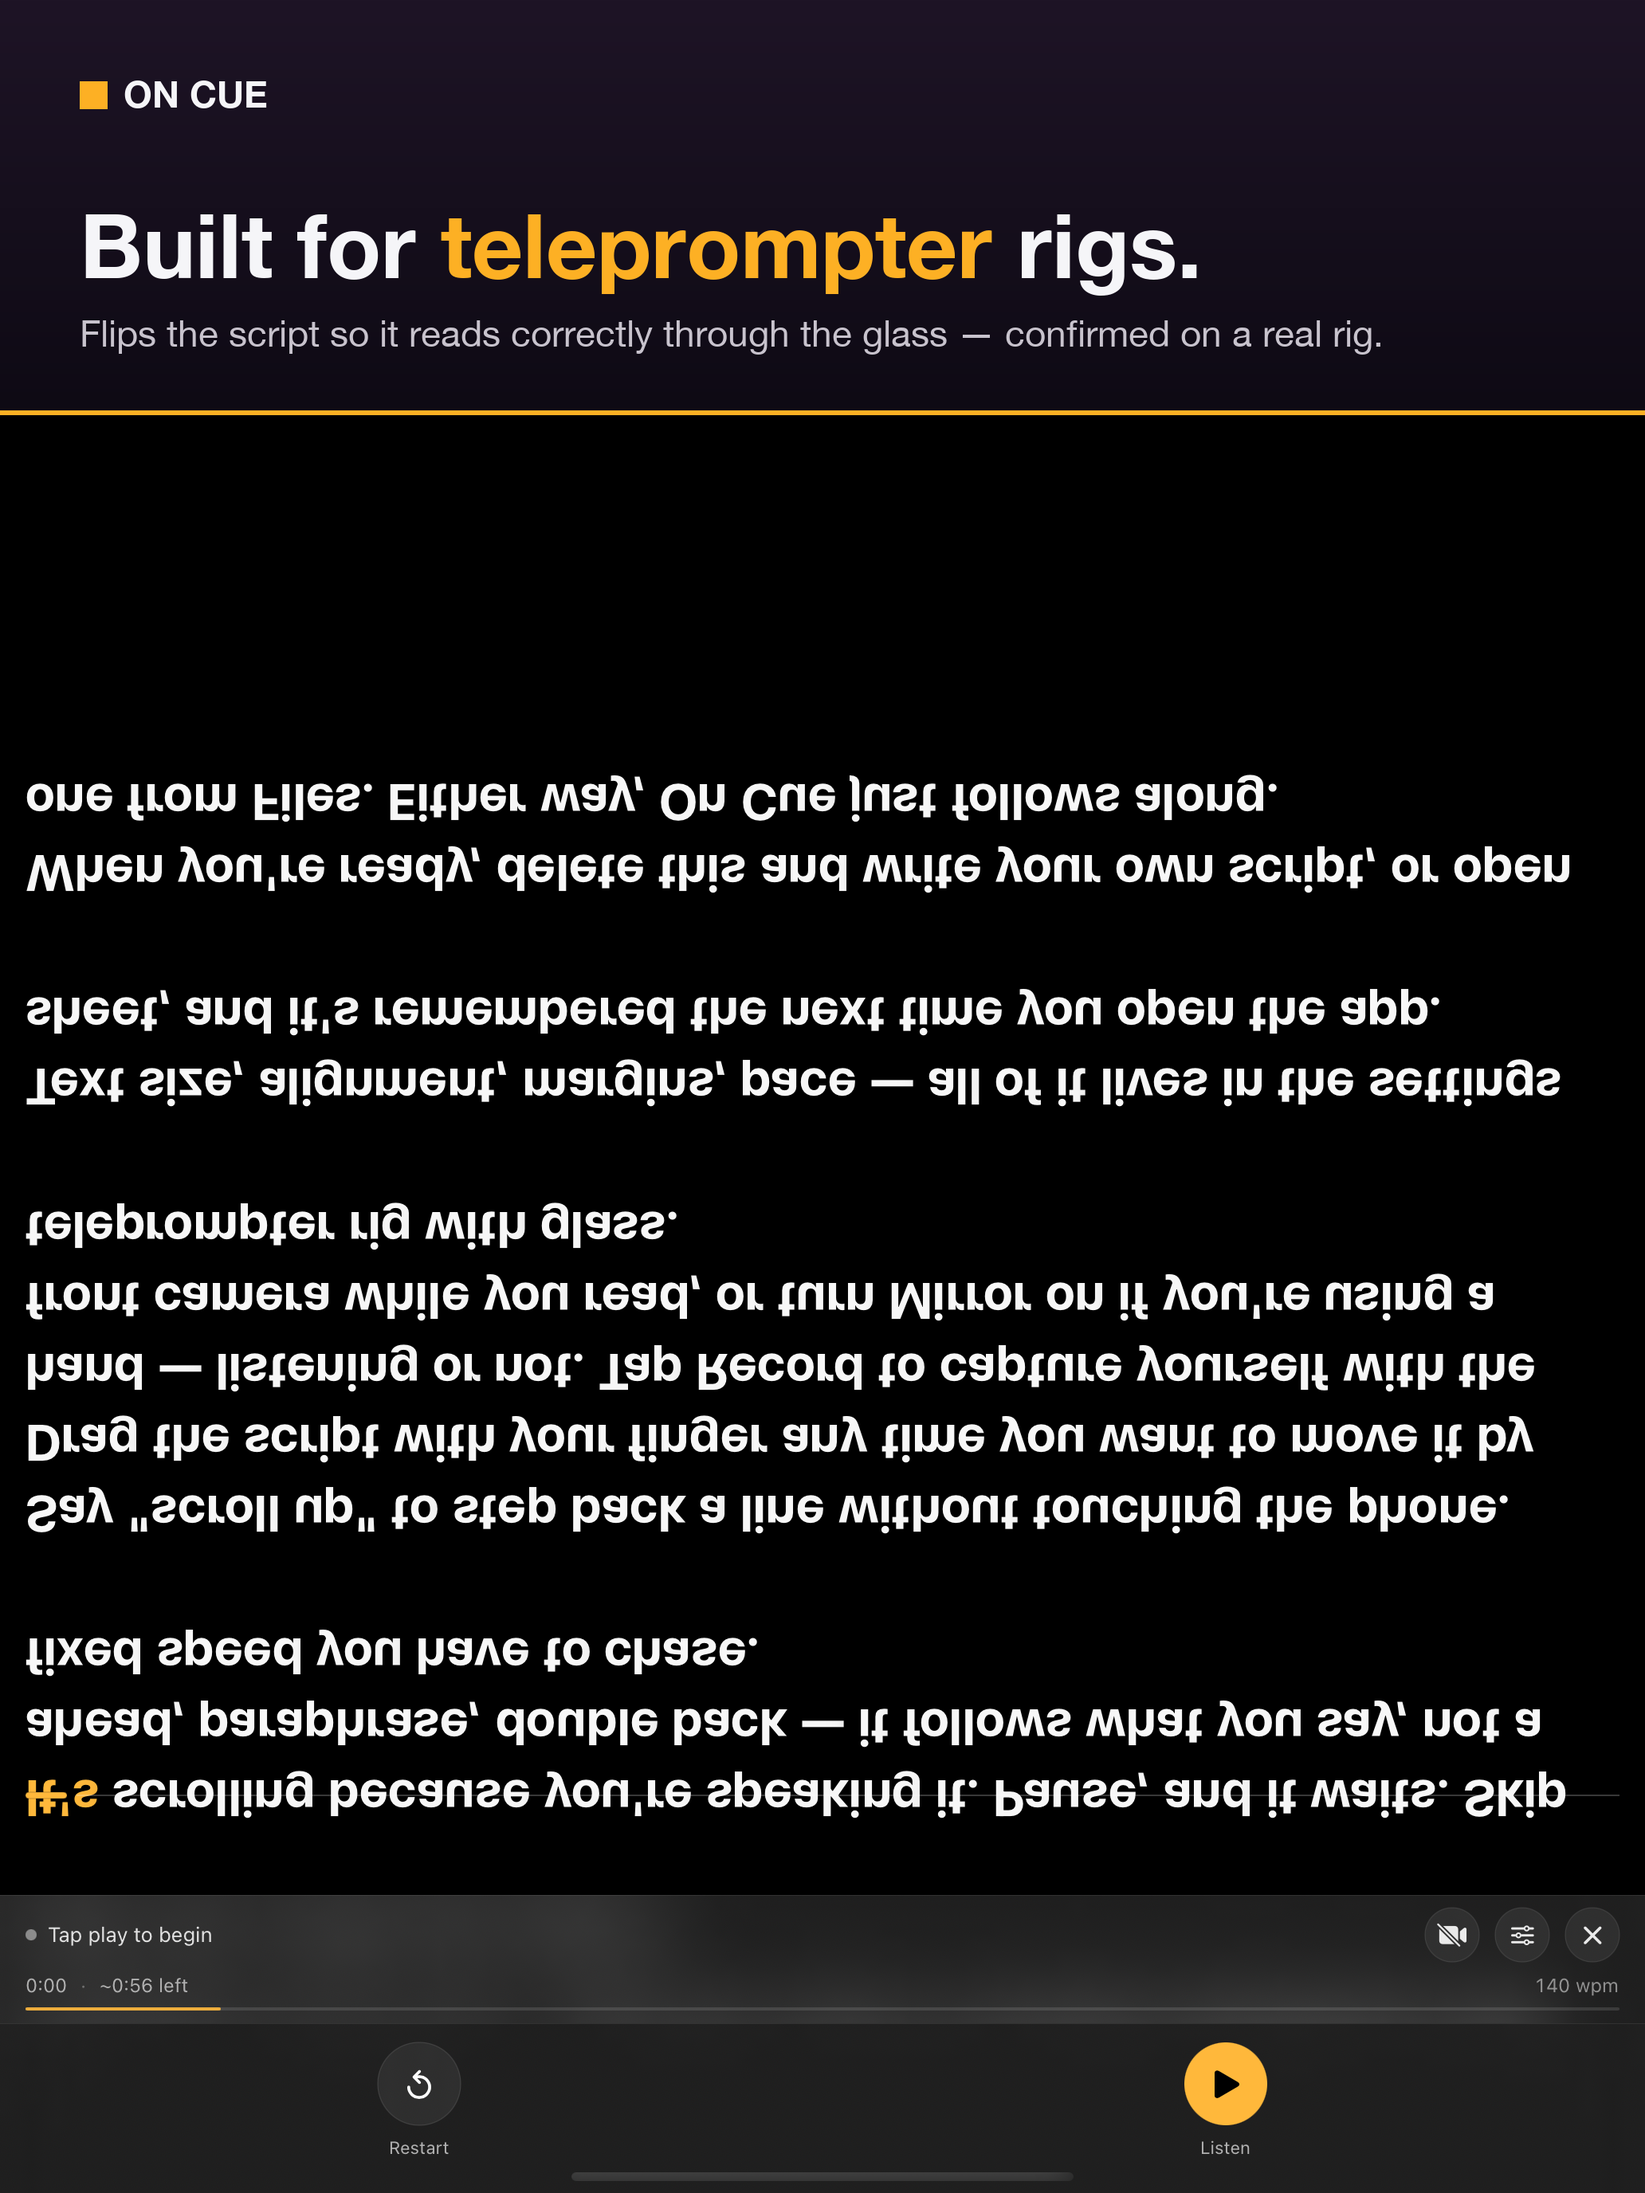
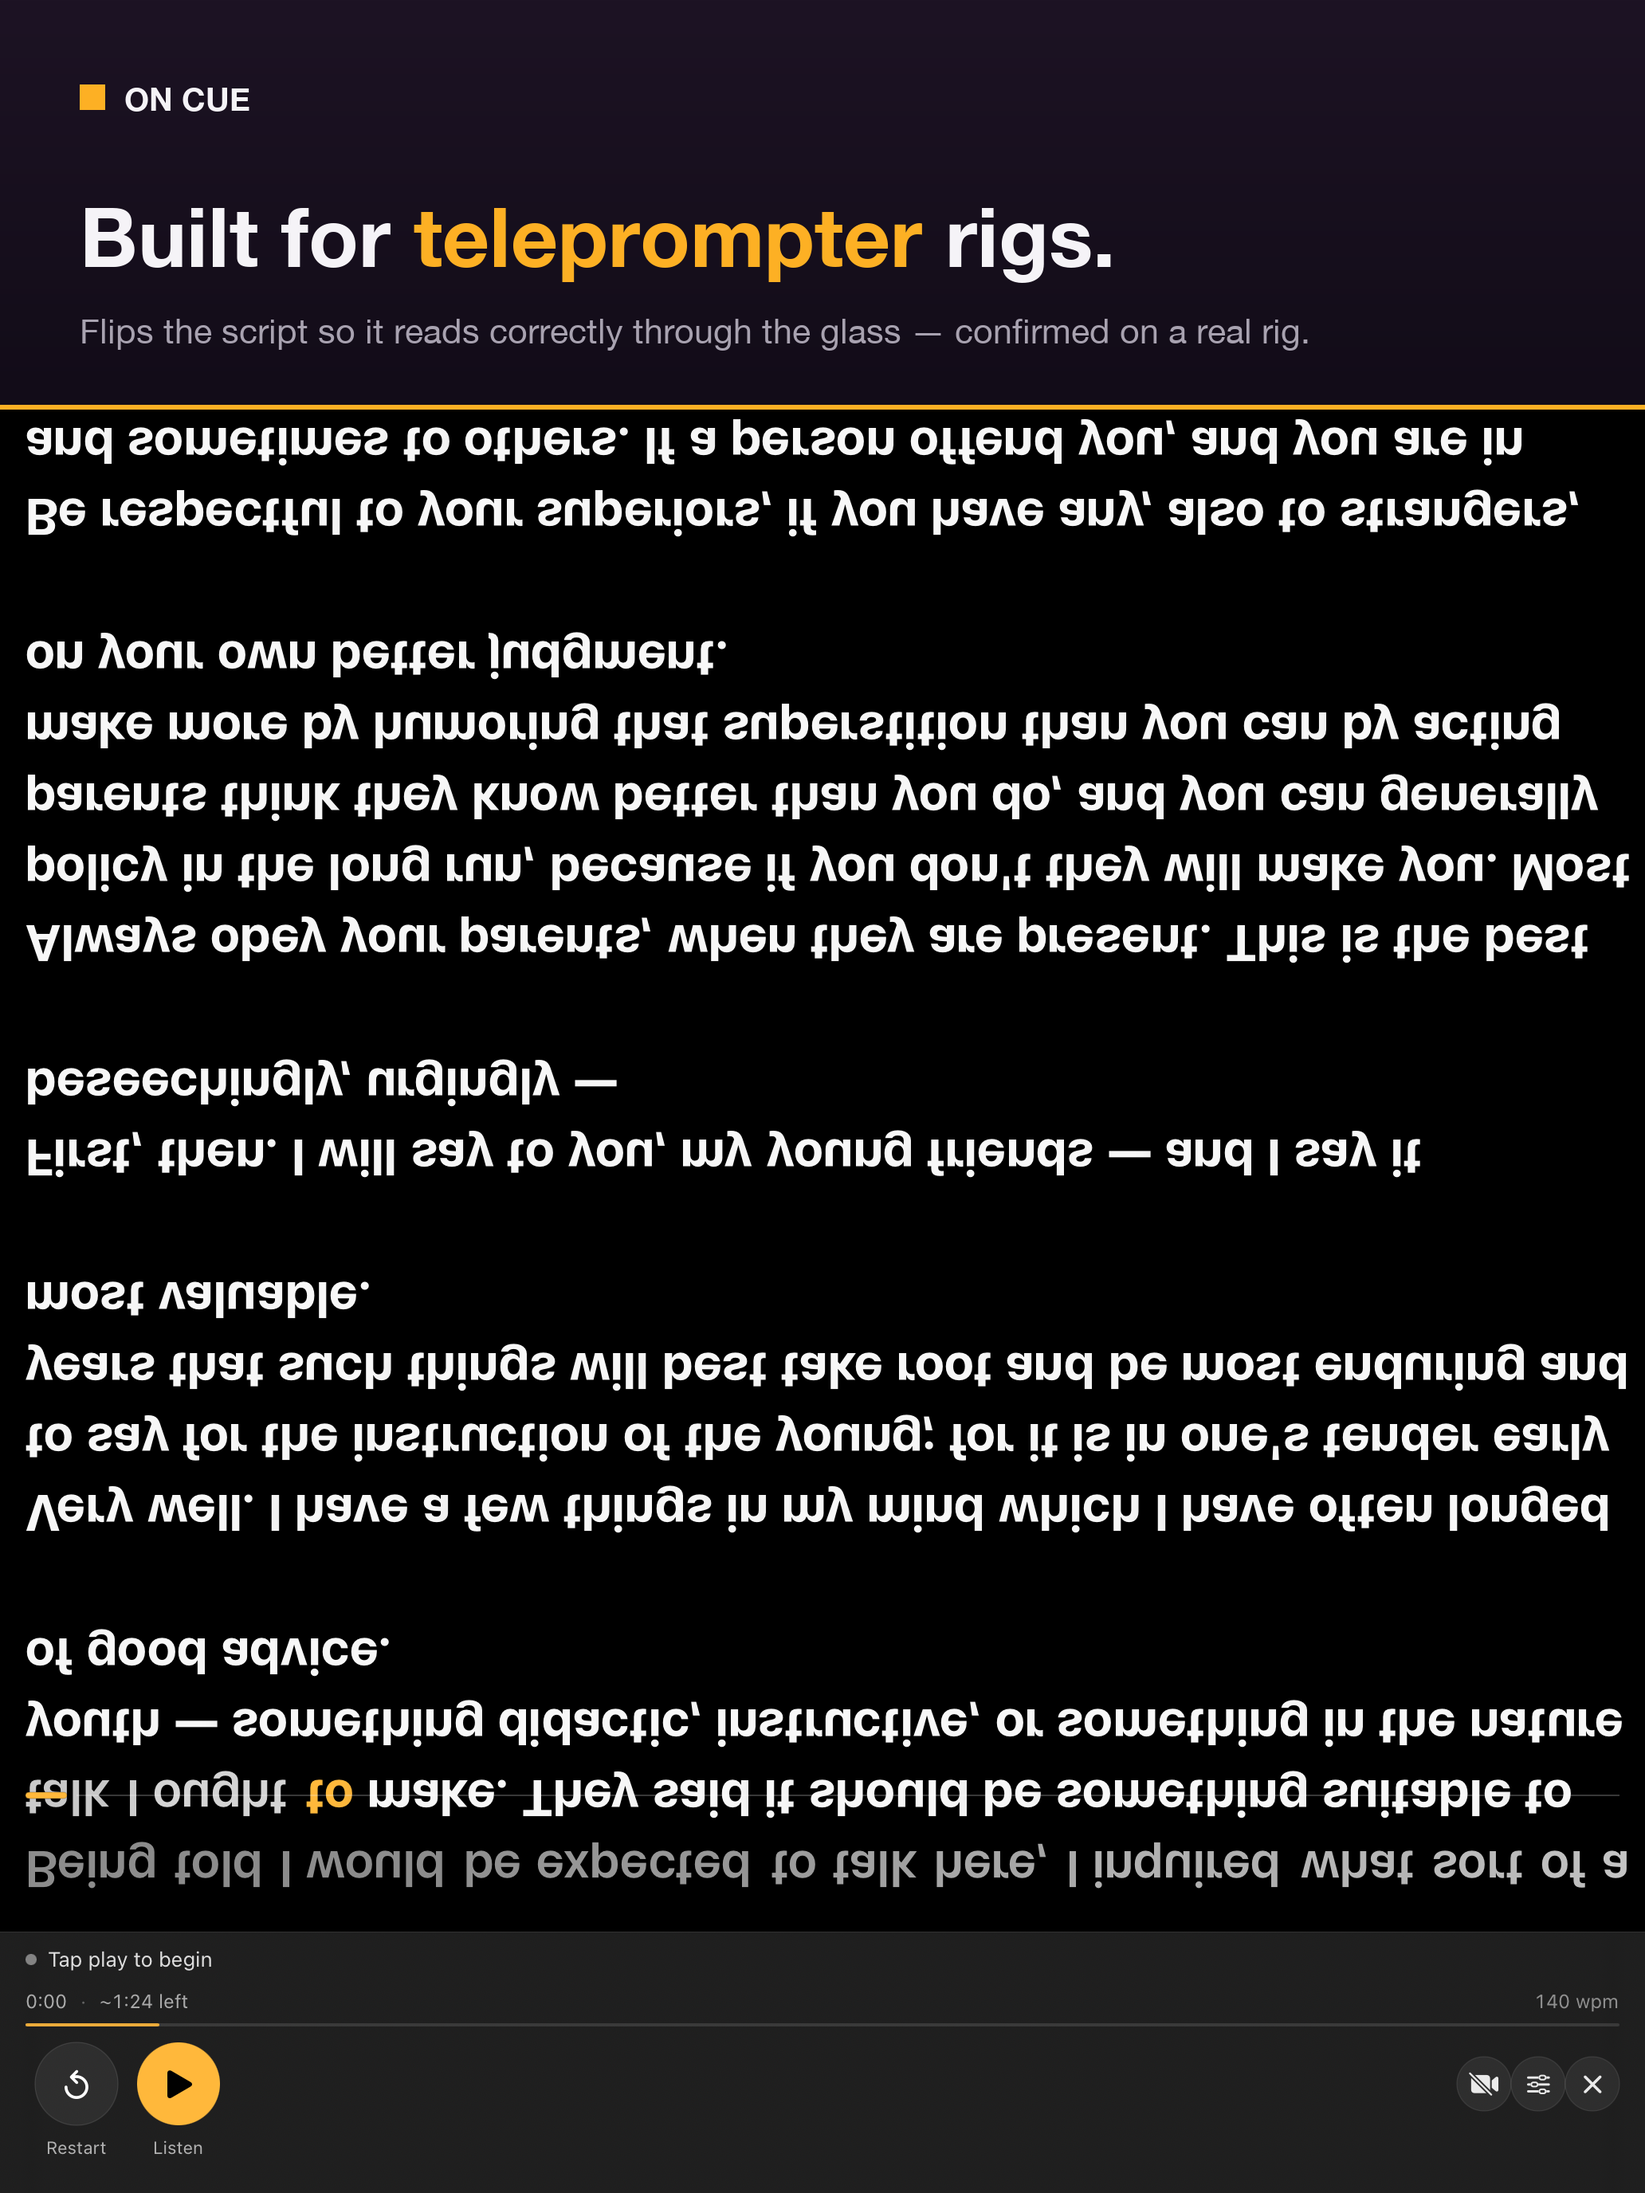
Refresh the App Store screenshots, and keep the compositor
The live set showed the old sample script and the pre-consolidation
chrome — two controls in two places, and a script that explained the app
to itself. Both iPhone and iPad sets are recaptured from the real app via
the MarketingCaptures harness: the Twain sample script, the single
control row, and the take controls dimmed rather than hidden.

The recording shot was also lying. `-uiTestingShowRecording` faked
`camera.isRecording` alone, which is not a state a real take reaches —
`beginRecordingTake` starts listening too — so the screenshot showed a
red tally counting up beside a play button inviting you to start
listening. It now fakes a whole take, and the shot reads Pause / Stop
as it would in use.

`Tools/marketing_screens.py` is the compositor. It existed before as a
scratch script outside the repo and was lost, so the headline copy had to
be recovered by reading pixels back out of the previous PNGs. It lives
here now, with that copy in it.

Claude-Session: https://claude.ai/code/session_01PLYXeJk4B4g9YcHByPt4ta

diff --git a/Cue/Views/PrompterView.swift b/Cue/Views/PrompterView.swift
@@ -259,6 +259,13 @@ struct PrompterView: View {
                     state.cameraEnabled = true
                     camera.isRecording = true
                     camera.recordingSeconds = 14
+                    // Listening too, because recording without it is not a
+                    // state a real take reaches — `beginRecordingTake` starts
+                    // both. Faking only the recording half produced a
+                    // marketing screenshot that contradicted itself: a red
+                    // tally counting up, next to a play button inviting you
+                    // to start listening.
+                    state.isListening = true
                 }
                 syncInterfaceOrientation()
                 tickCueY = cueY

diff --git a/Tools/marketing_screens.py b/Tools/marketing_screens.py
@@ -1,0 +1,142 @@
+#!/usr/bin/env python3
+"""Composite App Store screenshots: a headline band over a real screen capture.
+
+Captures come from the `CueUITests/MarketingCaptures` harness, which shoots the
+actual app rather than a mockup. This adds the marketing band on top and writes
+the result at exactly the dimensions App Store Connect expects for that device
+class, which is whatever the simulator already produced.
+
+    xcodebuild test -project Cue.xcodeproj -scheme Cue \
+      -destination 'platform=iOS Simulator,name=iPhone 17 Pro Max' \
+      -only-testing:CueUITests/MarketingCaptures -resultBundlePath /tmp/mkt
+    xcrun xcresulttool export attachments --path /tmp/mkt --output-path /tmp/shots
+    Tools/marketing_screens.py /tmp/shots Marketing/AppStoreScreenshots
+
+The band is designed at 1320pt wide (iPhone 17 Pro Max) and scaled by width for
+everything else, which is how the iPad set was built and why the two look like
+one family. Lives here rather than in a scratch directory because it was written
+from scratch twice: the copy below IS the marketing copy, and recovering it
+meant reading pixels back out of the previous PNGs.
+"""
+import json
+import os
+import sys
+from PIL import Image, ImageDraw, ImageFont
+
+BAND_TOP = (29, 19, 36)
+BAND_BOTTOM = (18, 12, 24)
+ACCENT = (253, 176, 36)
+WHITE = (245, 243, 247)
+GREY = (168, 162, 176)
+
+BOLD = "/System/Library/Fonts/HelveticaNeue.ttc"
+BOLD_INDEX = 1          # Helvetica Neue Bold
+REGULAR_INDEX = 0       # Helvetica Neue
+
+# (capture name, output name, headline runs, subline). A run is (text, accent?)
+SCREENS = [
+    ("m-listening", "01-listens",
+     [("It", True), (" listens.", False)],
+     "Speak at your pace. Pause, skip a line, paraphrase — it stays with you."),
+    ("m-recording", "02-records",
+     [("Prop up your phone ", False), ("and hit record.", True)],
+     "Front camera and script on one screen — no extra gear, no separate operator."),
+    ("m-mirroring", "03-mirrors",
+     [("Built for ", False), ("teleprompter", True), (" rigs.", False)],
+     "Flips the script so it reads correctly through the glass — confirmed on a real rig."),
+    ("m-editor", "04-editor",
+     [("Write", True), (" it. Or open any script.", False)],
+     "Import from Files or iCloud Drive — edits save back automatically."),
+]
+
+
+def font(index, size):
+    return ImageFont.truetype(BOLD, size=size, index=index)
+
+
+def wrap(runs, draw, f, max_width):
+    """Greedy-wrap accent-tagged runs into lines of (text, accent) pieces."""
+    words = [(w, accent) for text, accent in runs for w in text.split(" ") if w != ""]
+    lines, line, width = [], [], 0
+    for word, accent in words:
+        piece = word + " "
+        w = draw.textlength(piece, font=f)
+        if line and width + w > max_width:
+            lines.append(line)
+            line, width = [], 0
+        line.append((piece, accent))
+        width += w
+    if line:
+        lines.append(line)
+    return lines
+
+
+def compose(shot, runs, subline):
+    W, H = shot.size
+    s = W / 1320
+    margin = int(64 * s)
+    head_f = font(BOLD_INDEX, int(66 * s))
+    logo_f = font(BOLD_INDEX, int(26 * s))
+    sub_f = font(REGULAR_INDEX, int(28 * s))
+    line_h = int(76 * s)
+
+    out = Image.new("RGB", (W, H), BAND_BOTTOM)
+    draw = ImageDraw.Draw(out)
+
+    lines = wrap(runs, draw, head_f, W - margin * 2)
+    head_top = int(150 * s)
+    sub_top = head_top + line_h * (len(lines) - 1) + int(100 * s)
+    band_h = sub_top + int(28 * s) + int(48 * s)
+    rule = max(2, int(4 * s))
+
+    for y in range(band_h):
+        t = y / max(1, band_h - 1)
+        draw.line(
+            [(0, y), (W, y)],
+            fill=tuple(int(a + (b - a) * t) for a, b in zip(BAND_TOP, BAND_BOTTOM)),
+        )
+
+    sq = int(20 * s)
+    sq_y = int(68 * s)
+    draw.rectangle([margin, sq_y, margin + sq, sq_y + sq], fill=ACCENT)
+    draw.text((margin + sq + int(16 * s), sq_y - int(4 * s)), "ON CUE", font=logo_f, fill=WHITE)
+
+    y = head_top
+    for line in lines:
+        x = margin
+        for piece, accent in line:
+            draw.text((x, y), piece, font=head_f, fill=ACCENT if accent else WHITE)
+            x += draw.textlength(piece, font=head_f)
+        y += line_h
+
+    draw.text((margin, sub_top), subline, font=sub_f, fill=GREY)
+    draw.rectangle([0, band_h, W, band_h + rule], fill=ACCENT)
+
+    # Bottom-aligned: the chrome at the foot of the screen is the point of the
+    # shot, so the band eats into the top of the capture rather than squashing it.
+    top = band_h + rule
+    out.paste(shot.crop((0, H - (H - top), W, H)), (0, top))
+    return out
+
+
+def main(shots_dir, out_dir):
+    manifest = json.load(open(os.path.join(shots_dir, "manifest.json")))
+    by_name = {
+        a["suggestedHumanReadableName"].split("_")[0]: a["exportedFileName"]
+        for e in manifest for a in e.get("attachments", [])
+    }
+    os.makedirs(out_dir, exist_ok=True)
+    for capture, out_name, runs, subline in SCREENS:
+        src = by_name.get(capture)
+        if src is None:
+            raise SystemExit(f"missing capture {capture} in {shots_dir}")
+        shot = Image.open(os.path.join(shots_dir, src)).convert("RGB")
+        dest = os.path.join(out_dir, out_name + ".png")
+        compose(shot, runs, subline).save(dest)
+        print(f"{dest}  {shot.size[0]}x{shot.size[1]}")
+
+
+if __name__ == "__main__":
+    if len(sys.argv) != 3:
+        raise SystemExit(__doc__)
+    main(sys.argv[1], sys.argv[2])
